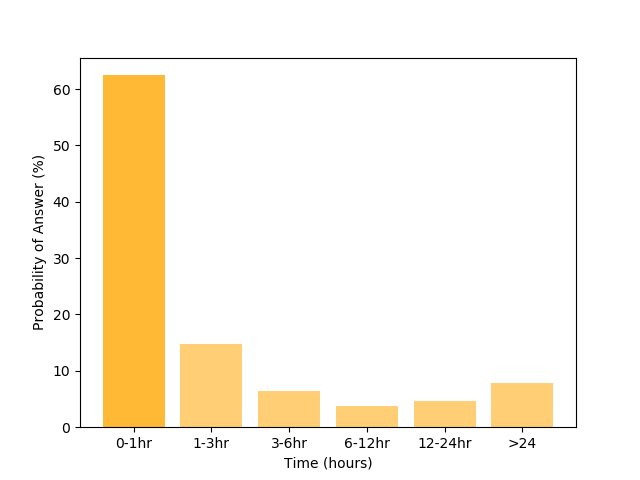
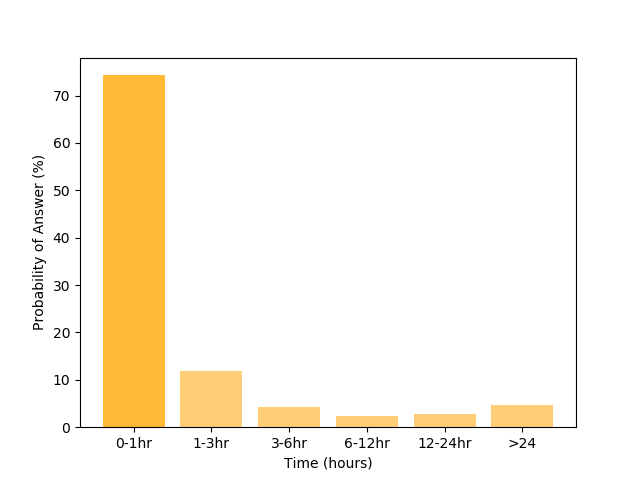
fix empty tag issue

diff --git a/prediction/app.py b/prediction/app.py
@@ -237,8 +237,13 @@ def show_pie(prob):
     
     
     #plt.bar(keys, prob)
-    plt.bar(keys[0], prob[0],color=[255/255,185/255,53/255])
-    plt.bar(keys[1:], prob[1:],color=[255/255,206/255,117/255])
+    idx = prob.argmax()
+    print(idx)
+    zeros = np.zeros(prob.shape)
+    zeros[idx] = prob[idx]
+    prob[idx]=0
+    plt.bar(keys, zeros,color=[255/255,185/255,53/255])
+    plt.bar(keys, prob,color=[255/255,206/255,117/255])
     plt.xlabel('Time (hours)')
     plt.ylabel('Probability of Answer (%)')
 #    plt.savefig('./output/time.png')
@@ -338,17 +343,19 @@ def predict():
 
     #########
     
-    
-    predicted_tag = source_tag[0]
-    predicted_expert, predicted_id, unique_id = get_expert(predicted_tag)
-    radar(unique_id) #---------------------------- generate radar plot
-    
     data_path = './dataExpertID.csv'
-
+    predicted_tag = source_tag[0]
+    #predicted_expert, predicted_id, unique_id = get_expert(predicted_tag)
     predicted_experts,expert_ids,unique_id = get_expert(predicted_tag, data_path)
     print(predicted_experts)
     print(predicted_tag)
     print(get_tag_image(predicted_tag))
+    if len(unique_id) == 0:
+        predicted_expert, predicted_id, unique_id = get_expert(['python'])
+    radar(unique_id) #---------------------------- generate radar plot
+    
+    
+    
     output = prediction_time
 	
 
